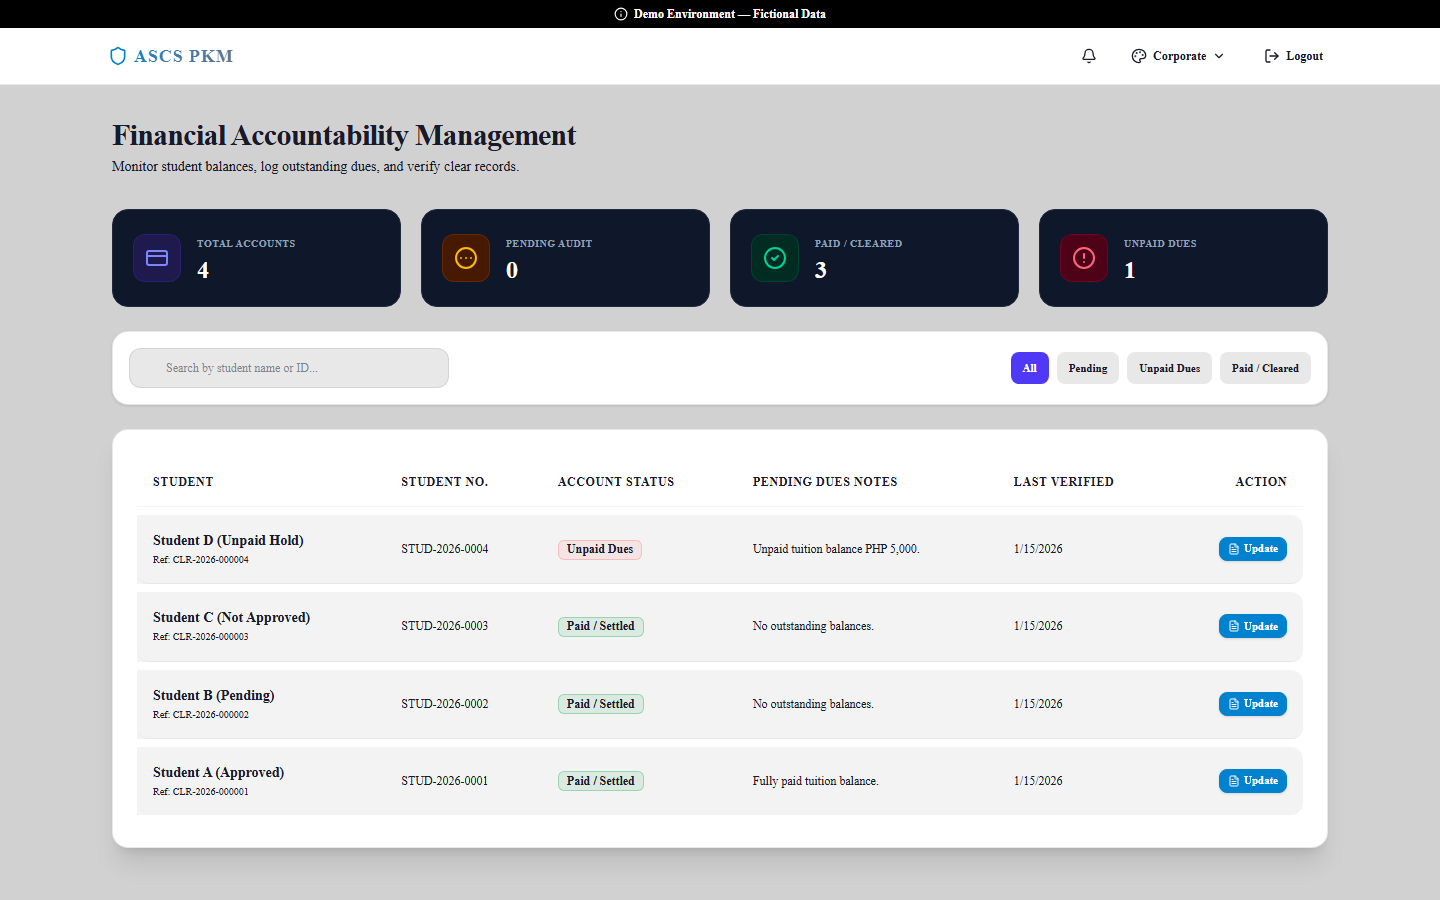
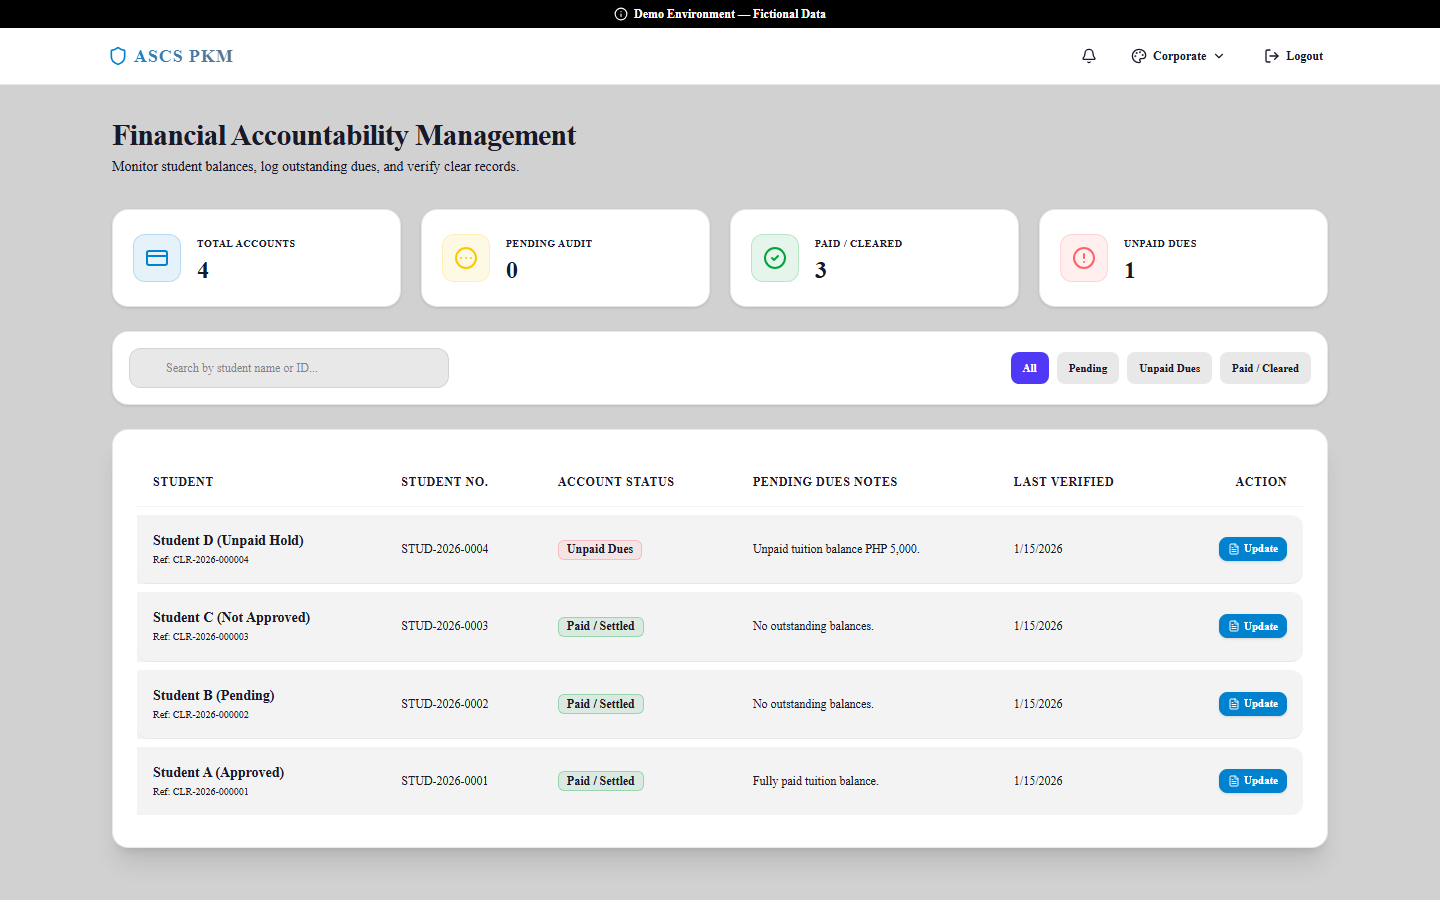
Make KPI cards theme aware

Changed region(s): [[0.0625, 0.2178, 0.9375, 0.3422]]

diff --git a/components/accountant/AccountantDashboard.tsx b/components/accountant/AccountantDashboard.tsx
@@ -147,43 +147,43 @@ export default function AccountantDashboard() {
     <div className="space-y-6">
       {/* 1. Header & Summary Stats */}
       <div className="grid grid-cols-1 md:grid-cols-4 gap-5">
-        <div className="card bg-slate-900 border border-slate-800 p-5 rounded-2xl flex flex-row items-center gap-4">
-          <div className="w-12 h-12 rounded-xl bg-indigo-950 border border-indigo-800/40 flex items-center justify-center text-indigo-400">
+        <div className="card bg-base-100 border border-base-content/10 shadow-sm p-5 rounded-2xl flex flex-row items-center gap-4">
+          <div className="w-12 h-12 rounded-xl bg-primary/10 border border-primary/20 flex items-center justify-center text-primary">
             <CreditCard className="w-6 h-6" />
           </div>
           <div>
-            <span className="text-slate-400 text-[10px] font-semibold uppercase tracking-wider">Total Accounts</span>
-            <h3 className="text-2xl font-black text-white">{records.length}</h3>
+            <span className="text-base-content/60 text-[10px] font-semibold uppercase tracking-wider">Total Accounts</span>
+            <h3 className="text-2xl font-black text-base-content">{records.length}</h3>
           </div>
         </div>
 
-        <div className="card bg-slate-900 border border-slate-800 p-5 rounded-2xl flex flex-row items-center gap-4">
-          <div className="w-12 h-12 rounded-xl bg-amber-950 border border-amber-800/40 flex items-center justify-center text-amber-400">
+        <div className="card bg-base-100 border border-base-content/10 shadow-sm p-5 rounded-2xl flex flex-row items-center gap-4">
+          <div className="w-12 h-12 rounded-xl bg-warning/10 border border-warning/20 flex items-center justify-center text-warning">
             <CircleEllipsis className="w-6 h-6" />
           </div>
           <div>
-            <span className="text-slate-400 text-[10px] font-semibold uppercase tracking-wider">Pending Audit</span>
-            <h3 className="text-2xl font-black text-white">{pendingCount}</h3>
+            <span className="text-base-content/60 text-[10px] font-semibold uppercase tracking-wider">Pending Audit</span>
+            <h3 className="text-2xl font-black text-base-content">{pendingCount}</h3>
           </div>
         </div>
 
-        <div className="card bg-slate-900 border border-slate-800 p-5 rounded-2xl flex flex-row items-center gap-4">
-          <div className="w-12 h-12 rounded-xl bg-emerald-950 border border-emerald-800/40 flex items-center justify-center text-emerald-400">
+        <div className="card bg-base-100 border border-base-content/10 shadow-sm p-5 rounded-2xl flex flex-row items-center gap-4">
+          <div className="w-12 h-12 rounded-xl bg-success/10 border border-success/20 flex items-center justify-center text-success">
             <CheckCircle2 className="w-6 h-6" />
           </div>
           <div>
-            <span className="text-slate-400 text-[10px] font-semibold uppercase tracking-wider">Paid / Cleared</span>
-            <h3 className="text-2xl font-black text-white">{paidCount}</h3>
+            <span className="text-base-content/60 text-[10px] font-semibold uppercase tracking-wider">Paid / Cleared</span>
+            <h3 className="text-2xl font-black text-base-content">{paidCount}</h3>
           </div>
         </div>
 
-        <div className="card bg-slate-900 border border-slate-800 p-5 rounded-2xl flex flex-row items-center gap-4">
-          <div className="w-12 h-12 rounded-xl bg-rose-950 border border-rose-800/40 flex items-center justify-center text-rose-400">
+        <div className="card bg-base-100 border border-base-content/10 shadow-sm p-5 rounded-2xl flex flex-row items-center gap-4">
+          <div className="w-12 h-12 rounded-xl bg-error/10 border border-error/20 flex items-center justify-center text-error">
             <AlertCircle className="w-6 h-6" />
           </div>
           <div>
-            <span className="text-slate-400 text-[10px] font-semibold uppercase tracking-wider">Unpaid Dues</span>
-            <h3 className="text-2xl font-black text-white">{unpaidCount}</h3>
+            <span className="text-base-content/60 text-[10px] font-semibold uppercase tracking-wider">Unpaid Dues</span>
+            <h3 className="text-2xl font-black text-base-content">{unpaidCount}</h3>
           </div>
         </div>
       </div>

diff --git a/components/dean/DeanDashboard.tsx b/components/dean/DeanDashboard.tsx
@@ -95,33 +95,33 @@ export default function DeanDashboard() {
     <div className="space-y-6">
       {/* 1. Header & Summary Stats */}
       <div className="grid grid-cols-1 md:grid-cols-3 gap-5">
-        <div className="card bg-slate-900 border border-slate-800 p-5 rounded-2xl flex flex-row items-center gap-4">
-          <div className="w-12 h-12 rounded-xl bg-indigo-950 border border-indigo-800/40 flex items-center justify-center text-indigo-400">
+        <div className="card bg-base-100 border border-base-content/10 shadow-sm p-5 rounded-2xl flex flex-row items-center gap-4">
+          <div className="w-12 h-12 rounded-xl bg-primary/10 border border-primary/20 flex items-center justify-center text-primary">
             <ClipboardList className="w-6 h-6" />
           </div>
           <div>
-            <span className="text-slate-400 text-[10px] font-semibold uppercase tracking-wider">Adviser Approved</span>
-            <h3 className="text-2xl font-black text-white">{records.length}</h3>
+            <span className="text-base-content/60 text-[10px] font-semibold uppercase tracking-wider">Adviser Approved</span>
+            <h3 className="text-2xl font-black text-base-content">{records.length}</h3>
           </div>
         </div>
 
-        <div className="card bg-slate-900 border border-slate-800 p-5 rounded-2xl flex flex-row items-center gap-4">
-          <div className="w-12 h-12 rounded-xl bg-emerald-950 border border-emerald-800/40 flex items-center justify-center text-emerald-400">
+        <div className="card bg-base-100 border border-base-content/10 shadow-sm p-5 rounded-2xl flex flex-row items-center gap-4">
+          <div className="w-12 h-12 rounded-xl bg-success/10 border border-success/20 flex items-center justify-center text-success">
             <CheckCircle2 className="w-6 h-6" />
           </div>
           <div>
-            <span className="text-slate-400 text-[10px] font-semibold uppercase tracking-wider">Fully Cleared</span>
-            <h3 className="text-2xl font-black text-white">{clearedCount}</h3>
+            <span className="text-base-content/60 text-[10px] font-semibold uppercase tracking-wider">Fully Cleared</span>
+            <h3 className="text-2xl font-black text-base-content">{clearedCount}</h3>
           </div>
         </div>
 
-        <div className="card bg-slate-900 border border-slate-800 p-5 rounded-2xl flex flex-row items-center gap-4">
-          <div className="w-12 h-12 rounded-xl bg-amber-950 border border-amber-800/40 flex items-center justify-center text-amber-400">
+        <div className="card bg-base-100 border border-base-content/10 shadow-sm p-5 rounded-2xl flex flex-row items-center gap-4">
+          <div className="w-12 h-12 rounded-xl bg-warning/10 border border-warning/20 flex items-center justify-center text-warning">
             <CircleEllipsis className="w-6 h-6" />
           </div>
           <div>
-            <span className="text-slate-400 text-[10px] font-semibold uppercase tracking-wider">In Evaluation</span>
-            <h3 className="text-2xl font-black text-white">{pendingCount}</h3>
+            <span className="text-base-content/60 text-[10px] font-semibold uppercase tracking-wider">In Evaluation</span>
+            <h3 className="text-2xl font-black text-base-content">{pendingCount}</h3>
           </div>
         </div>
       </div>
